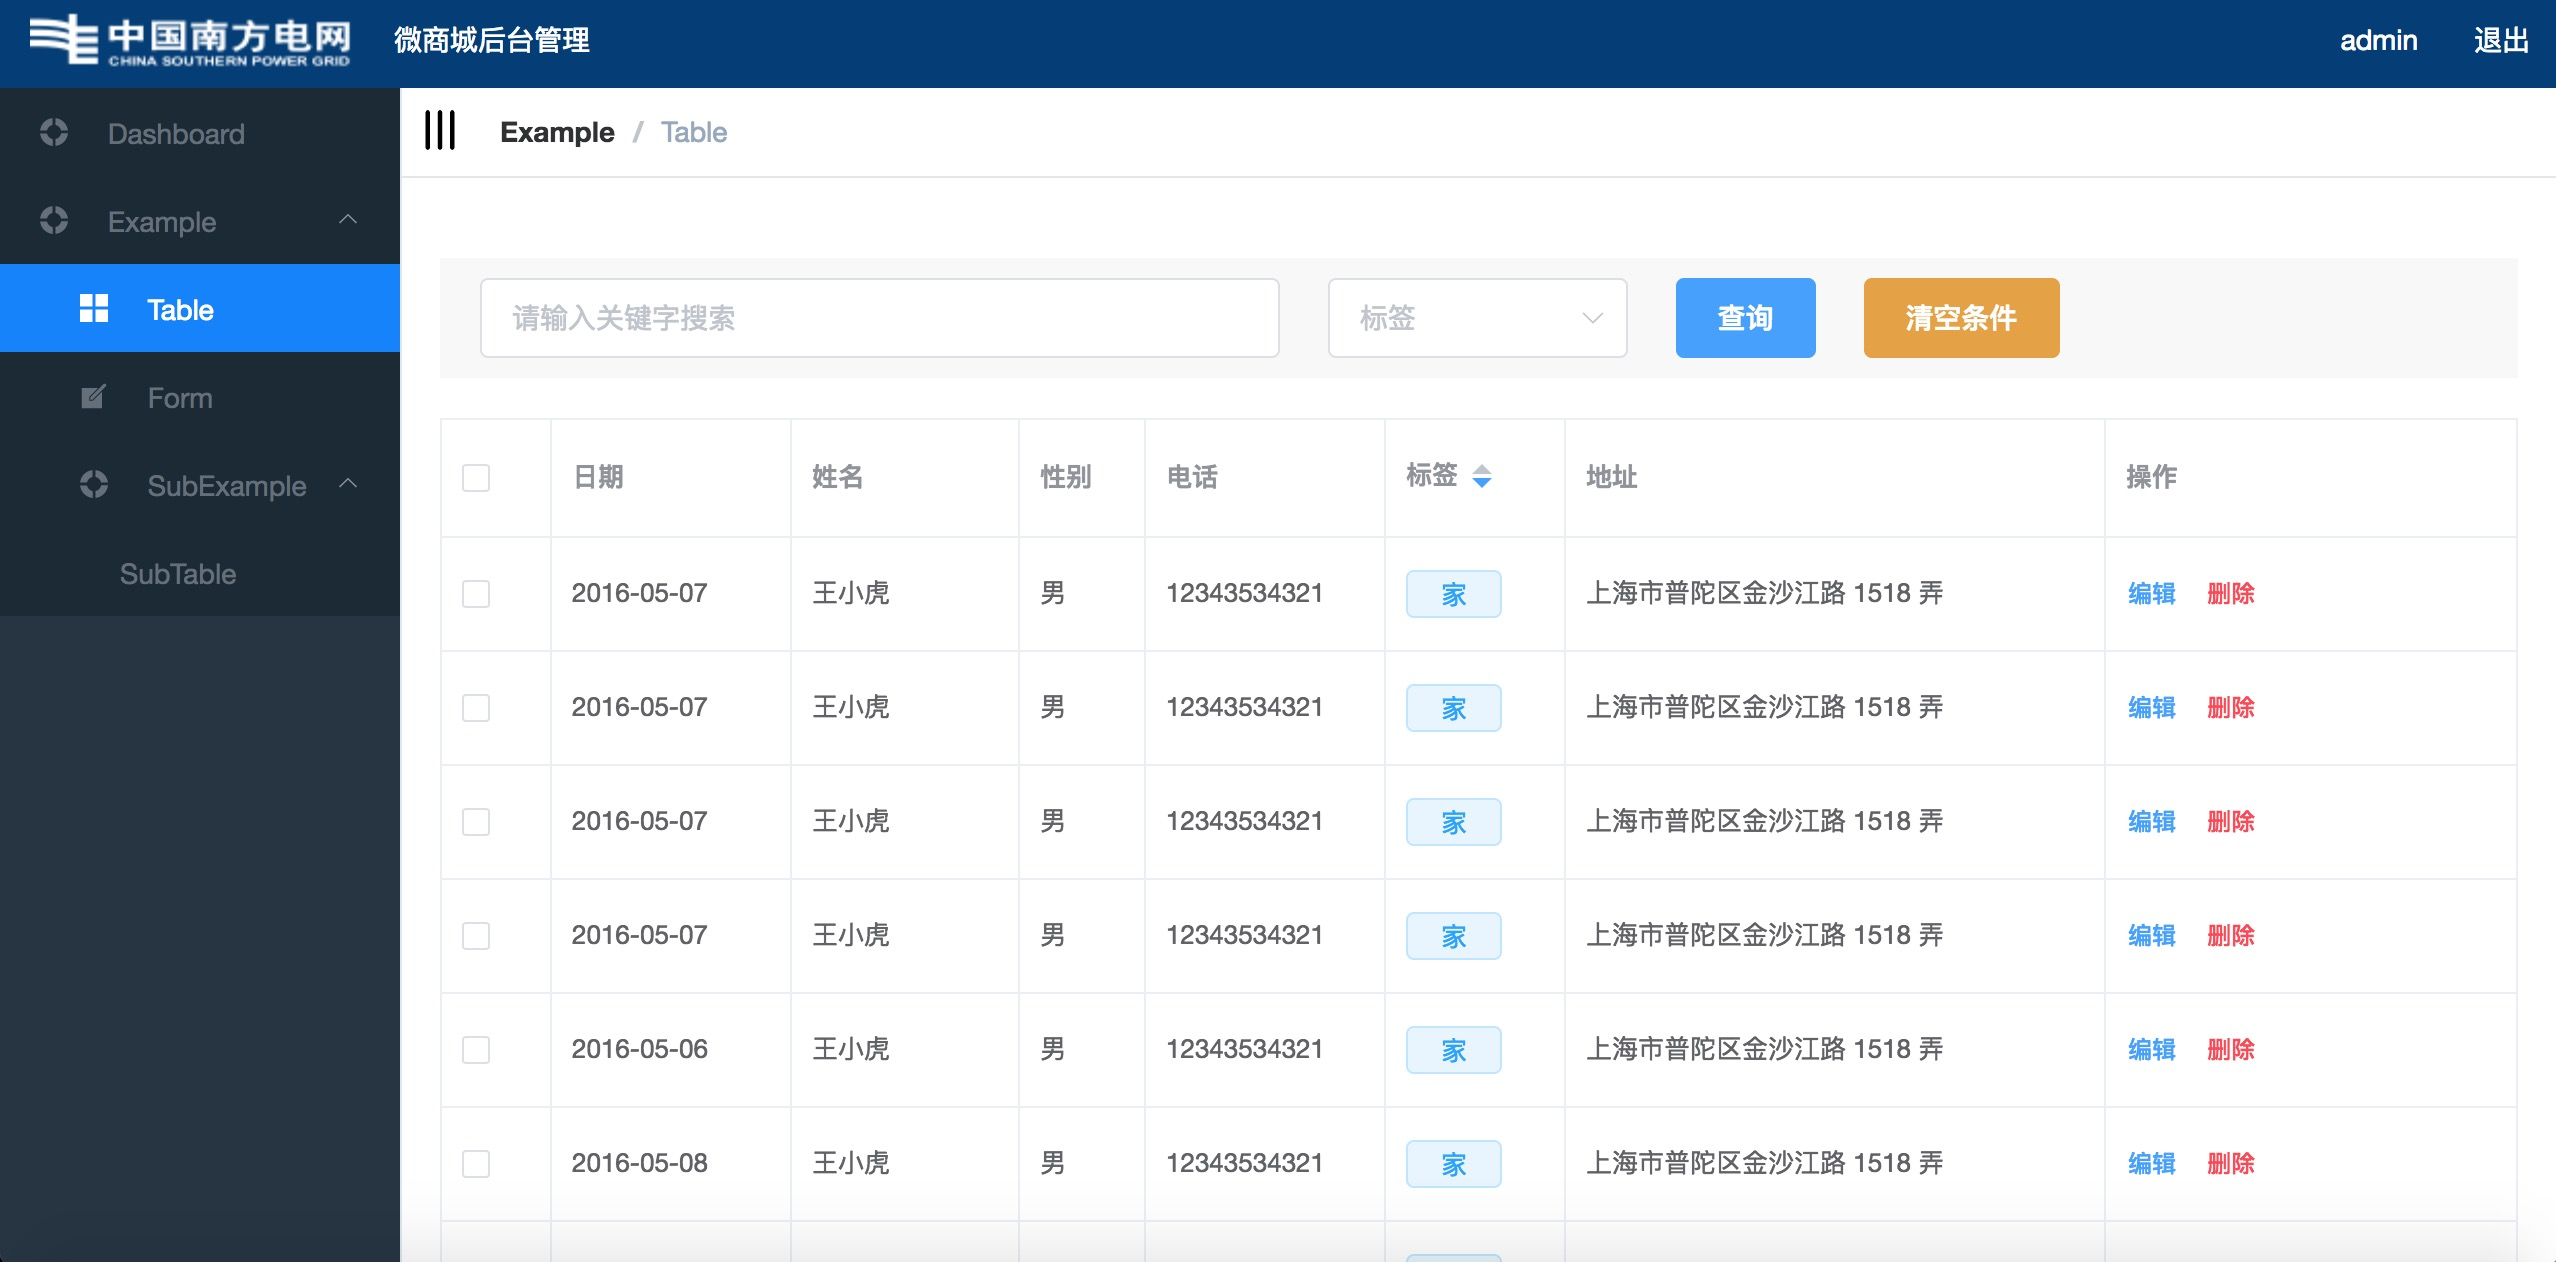
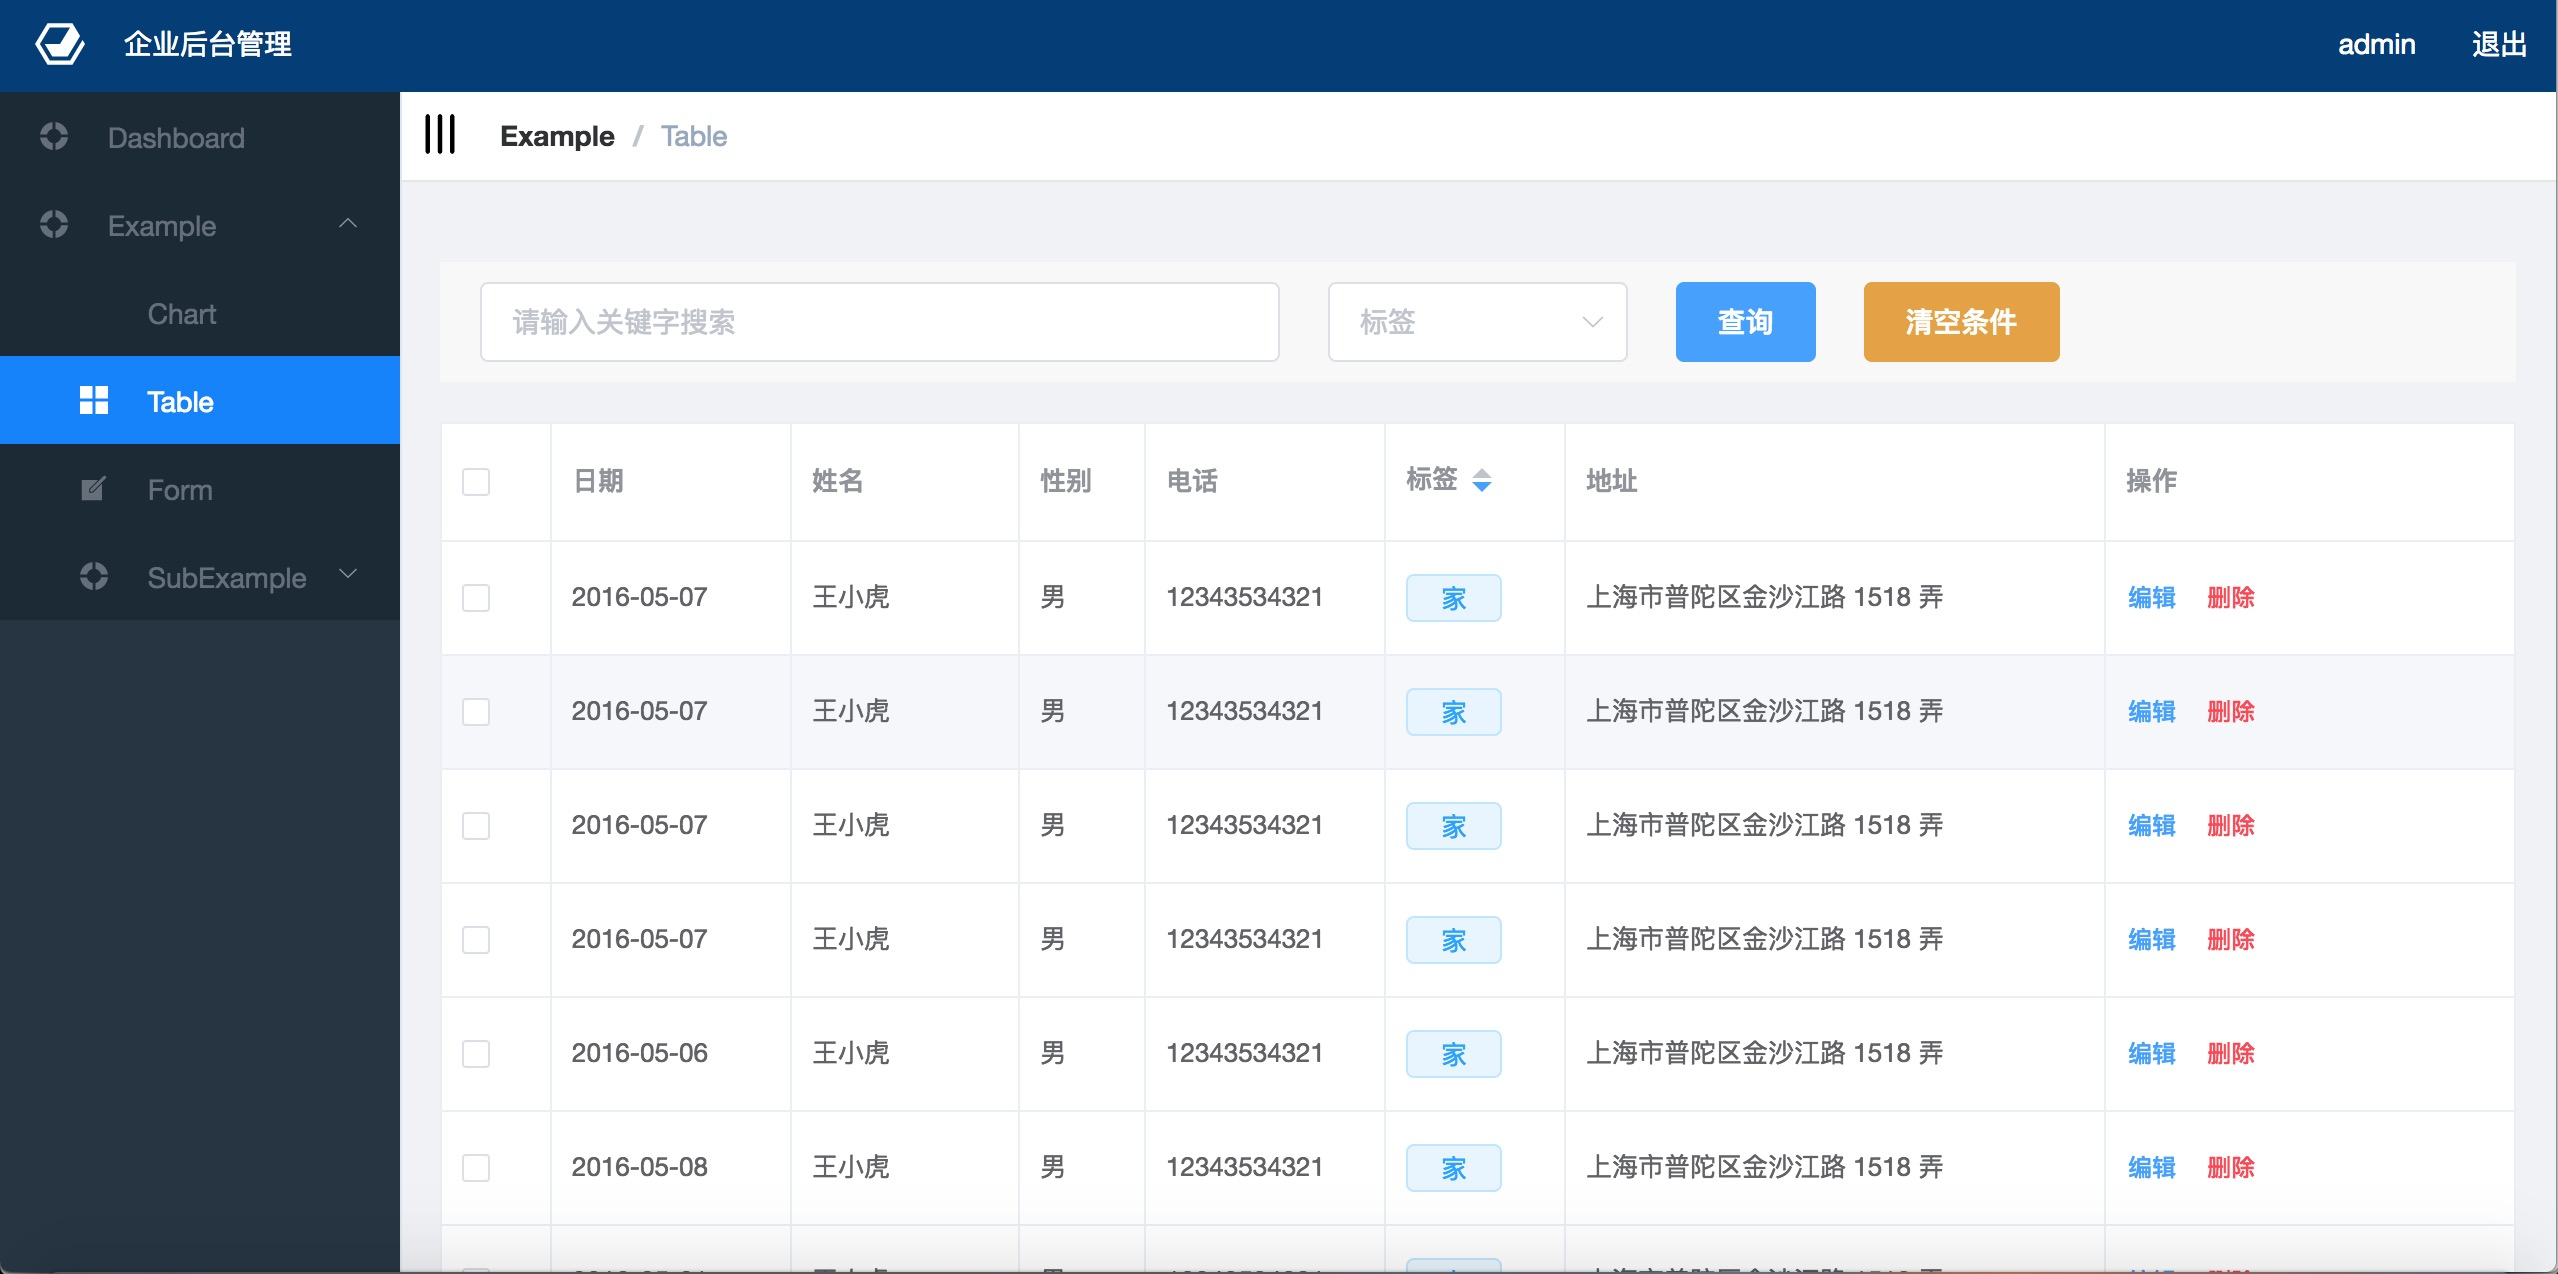
修改文档及增加echarts

diff --git a/src/views/charts/index.vue b/src/views/charts/index.vue
@@ -1,5 +1,5 @@
 <template>
-  <div class="chart-content">
+    <div class="chart-content">
       <div class="chart-row">
           <div class="chart-container-small">
                 <div class="chart-card">
@@ -21,9 +21,16 @@
           </div>
           <div class="chart-container-small">
                 <div class="chart-card">
-                    <chart-maker id="chart-small4" height="120px" width="100%" :option.sync="chartOption"></chart-maker>
+                    <chart-maker id="chart-small4" height="120px" width="100%" :option.sync="chart4Option"></chart-maker>
                     <div class="chart-desc">日访问量：1,234</div>
                 </div>
+          </div>
+      </div>
+      <div class="chart-row">
+          <div class="chart-container-large">
+              <div class="chart-card">
+                <chart-maker id="chart-large1" height="350px" width="100%" :option.sync="chartOption"></chart-maker>
+              </div>
           </div>
       </div>
   </div>
@@ -59,6 +66,7 @@ export default {
       chartOption: {},
       chart2Option: {},
       chart3Option: {},
+      chart4Option: {},
     };
   },
   methods: {
@@ -183,7 +191,7 @@ export default {
       };
       tmpOption.grid = {
         top: 55,
-        left: '-8%',
+        left: '-15',
         right: '5%',
         bottom: '0%',
         containLabel: true,
@@ -263,7 +271,7 @@ export default {
       };
       tmpOption.grid = {
         top: 55,
-        left: '-8%',
+        left: '-15',
         right: '5%',
         bottom: '2%',
         containLabel: true,
@@ -337,11 +345,92 @@ export default {
       }];
       this.chart3Option = Object.assign({}, this.option, tmpOption);
     },
+    getChart4Option() {
+      const tmpOption = {};
+      tmpOption.title = {
+        text: '调用频数',
+        left: '5',
+        top: '10',
+      };
+      tmpOption.tooltip = {
+        trigger: 'axis',
+        position(point, params, dom, rect, size) {
+          if (point[0] < 30) {
+            return [0, '20%'];
+          } else if (point[0] > (size.viewSize[0] - 130)) {
+            return [size.viewSize[0] - 130, '20%'];
+          }
+          return [point[0] - 30, '20%'];
+        },
+      };
+      tmpOption.grid = {
+        top: 55,
+        left: '-15',
+        right: '5%',
+        bottom: '2%',
+        containLabel: true,
+      };
+      tmpOption.xAxis = [{
+        show: false,
+        type: 'category',
+        axisTick: {
+          show: false,
+        },
+        axisLine: {
+          lineStyle: {
+            color: '#475669',
+          },
+        },
+        splitLine: {
+          show: true,
+          lineStyle: {
+            color: ['#E3E9EF'],
+          },
+        },
+        data: ['1', '2', '3', '4', '5', '6', '7', '8', '9', '10', '11', '12'],
+      }];
+      tmpOption.yAxis = [{
+        show: false,
+        type: 'value',
+        axisTick: {
+          show: false,
+        },
+        axisLine: {
+          lineStyle: {
+            color: '#475669',
+          },
+        },
+        axisLabel: {
+          margin: 10,
+          textStyle: {
+            fontSize: 14,
+          },
+        },
+        splitLine: {
+          lineStyle: {
+            color: ['#E3E9EF'],
+          },
+        },
+      }];
+      tmpOption.series = [{
+        name: '日调用频数',
+        type: 'bar',
+        stack: 'one',
+        data: [220, 182, 191, 134, 150, 120, 110, 125, 145, 122, 165, 122],
+      }, {
+        name: '夜调用频数',
+        type: 'bar',
+        stack: 'two',
+        data: [220, 182, 191, 134, 150, 120, 110, 125, 145, 122, 165, 122],
+      }];
+      this.chart4Option = Object.assign({}, this.option, tmpOption);
+    }
   },
   mounted() {
     this.getChart1Option();
     this.getChart2Option();
     this.getChart3Option();
+    this.getChart4Option();
   },
 };
 </script>
@@ -354,6 +443,9 @@ export default {
 
 <style rel="stylesheet/less" lang="less" scoped>
 .chart {
+    &-nav {
+        overflow: auto;
+    }
     &-row {
         margin-left: -12px;
         margin-right: -12px;
@@ -370,6 +462,14 @@ export default {
         margin-bottom: 24px;
         overflow: hidden;
         float: left;
+    }
+    &-container-large {
+        padding-left: 12px;
+        padding-right: 12px;
+        margin-bottom: 24px;
+        overflow: hidden;
+        float: left;
+        width: 100%;
     }
     &-card {
         font-size: 14px;
@@ -402,7 +502,7 @@ export default {
         width: 25%;
     }
 }
-@media (min-width: 992px) and (max-width: 1199px) {
+@media (max-width: 1199px) {
     .chart-container-small {
         display: block;
         box-sizing: border-box;

diff --git a/src/components/nav-bar.vue b/src/components/nav-bar.vue
@@ -105,6 +105,7 @@ header {
   left: 0;
   z-index: 1000;
   width: 100%;
+  min-width: 1000px;
 }
 ul {
   -webkit-padding-start: 0px;
@@ -130,8 +131,7 @@ ul {
   white-space: nowrap;
 }
 .container > img {
-  width: 165px;
-  height: 48px;
+  height: 30px;
   float: left;
 }
 .container > span {

diff --git a/src/App.vue b/src/App.vue
@@ -14,8 +14,8 @@ export default {
   data() {
     return {
       isShow: false,
-      address: 'title.png',
-      title: '微商城后台管理',
+      address: 'title.svg',
+      title: '企业后台管理',
     };
   },
   computed: {

diff --git a/src/components/layout/components/AppMain.vue b/src/components/layout/components/AppMain.vue
@@ -15,5 +15,6 @@ export default {
 <style rel="stylesheet/less" lang="less">
   .app-main {
     padding: 20px;
+    min-width: 785px;
   }
 </style>

diff --git a/README.md b/README.md
@@ -259,25 +259,21 @@ npm run lint
 ```
 proxyTable: {
   '/cloudfs': {
-    target: 'http://eim2.szcomtop.com:6888',
+    target: 'http://your_ip_address',
     changeOrigin: true,
     pathRewrite: {
   		'^/cloudfs': '/cloudfs'
 	}
   },
   '/api': {
-    target: 'http://eim2.szcomtop.com:6888',
+    target: 'http://your_ip_address',
     changeOrigin: true,
     pathRewrite: {
     	'^/api': '/api'
     }
   },
-  '/uom': {
-    target: 'http://eim2.szcomtop.com:6888',
-    changeOrigin: true
-  },
   '/plustek': {
-    target: 'http://eim2.szcomtop.com:6888/plustek',
+    target: 'http://your_ip_address/plustek',
     changeOrigin: true,
     onProxyReq: function (proxyReq, req, res) {
       console.log('获取到', process.env.eimCookie)
@@ -287,10 +283,6 @@ proxyTable: {
     	'^/plustek': ''
     }
   }
-},
-session: {
-  userName: 'admin',
-  path: 'http://eim2.szcomtop.com:6888/plustek/pc/index.html' // eim2中对应项目的链接
 }
 ```
 
@@ -300,17 +292,7 @@ session: {
 
 > 若后台系统有自己的认证机制，如jwt。则可以不用考虑cookie信息认证。
 >
-> 若是用企信认证机制，就要设置cookie。开发环境的Cookie是模拟放置在header中处理的，因此设置cookie有两种方式，
->
-> 1. 直接在上面的配置代理中，添加onProxyReq的配置，往header信息中塞进Cookie信息，保存重新npm run dev
-> 2. 方式二用登录脚本，自动登录获取Cookie，拼接到header中。方式二较为复杂，接下来介绍下步骤。
->    - 修改/config/index.js中的session对象的path，该path可以写本项目的swagger-ui.html。脚本会先请求该url获取有效信息后，保存到nodejs的全局对象process.env.eimCookie中。userName和password为登录的账号和密码
->    - 启动后，会自动获取，不需要开发人员去替换cookie
->    - 若cookie过期，只要将浏览器的请求地址替换成http://your_ip_address/reset会自动续期。续期后回到原来的页面请求，就不会过期了。
->
-> 方式一和方式二对比，第一种每次要自己修改替换，第二种只要修改配置中的path就可以。
->
-> 但是不是所有的情况都支持第二种的，因为第二种情况是企信认证机制的脚本，若不走这个方式，也只能用第一种方式。
+> 若要走cookie，直接在上面的配置代理中，添加onProxyReq的配置，往header信息中塞进Cookie信息，保存重新npm run dev
 
 ##### eslint代码规范修改步骤
 
